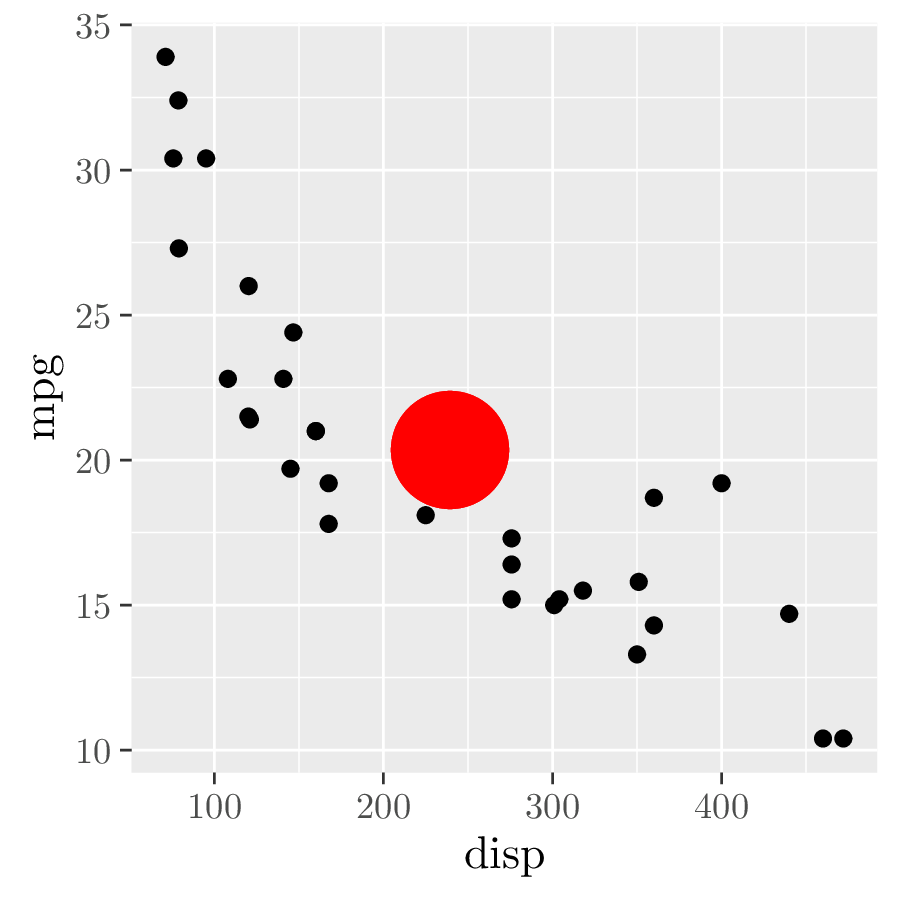
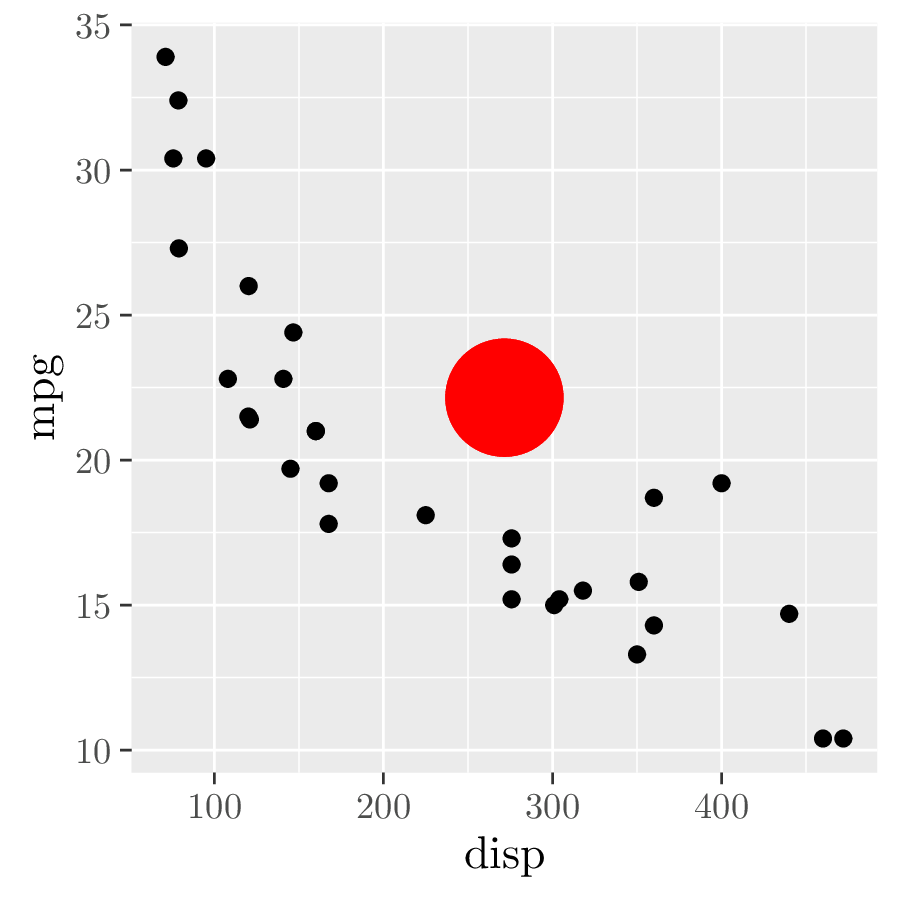
Update README

Changed region(s): [[0.4356, 0.3733, 0.6533, 0.5911]]

diff --git a/README.md b/README.md
@@ -41,6 +41,9 @@ devtools::install_github("osthomas/ggtikz", ref = "devel")
 
 ## New in Devel
 
+[![codecov](https://codecov.io/gh/osthomas/ggtikz/branch/devel/graph/badge.svg?token=0LPNGPFO5Z)](https://codecov.io/gh/osthomas/ggtikz)
+[![R-CMD-check](https://github.com/osthomas/ggtikz/workflows/R-CMD-check/badge.svg?branch=devel)](https://github.com/osthomas/ggtikz/actions)
+
 The TikZ coordinates used with transformed scales can no be
 automatically transformed with the `transform = TRUE` (now the default)
 option for `ggtikzAnnotation`.
@@ -84,7 +87,7 @@ p <- ggplot(mtcars, aes(disp, mpg)) + geom_point() # 1.
 ## tikz("plot.tikz")
 ggtikz(p,
     "\\fill[red] (0.5,0.5) circle (5mm);",
-    xy = "plot")
+    xy = "panel", panelx = 1, panely = 1)
 ## dev.off()
 ## Render with LaTeX ...
 ```
